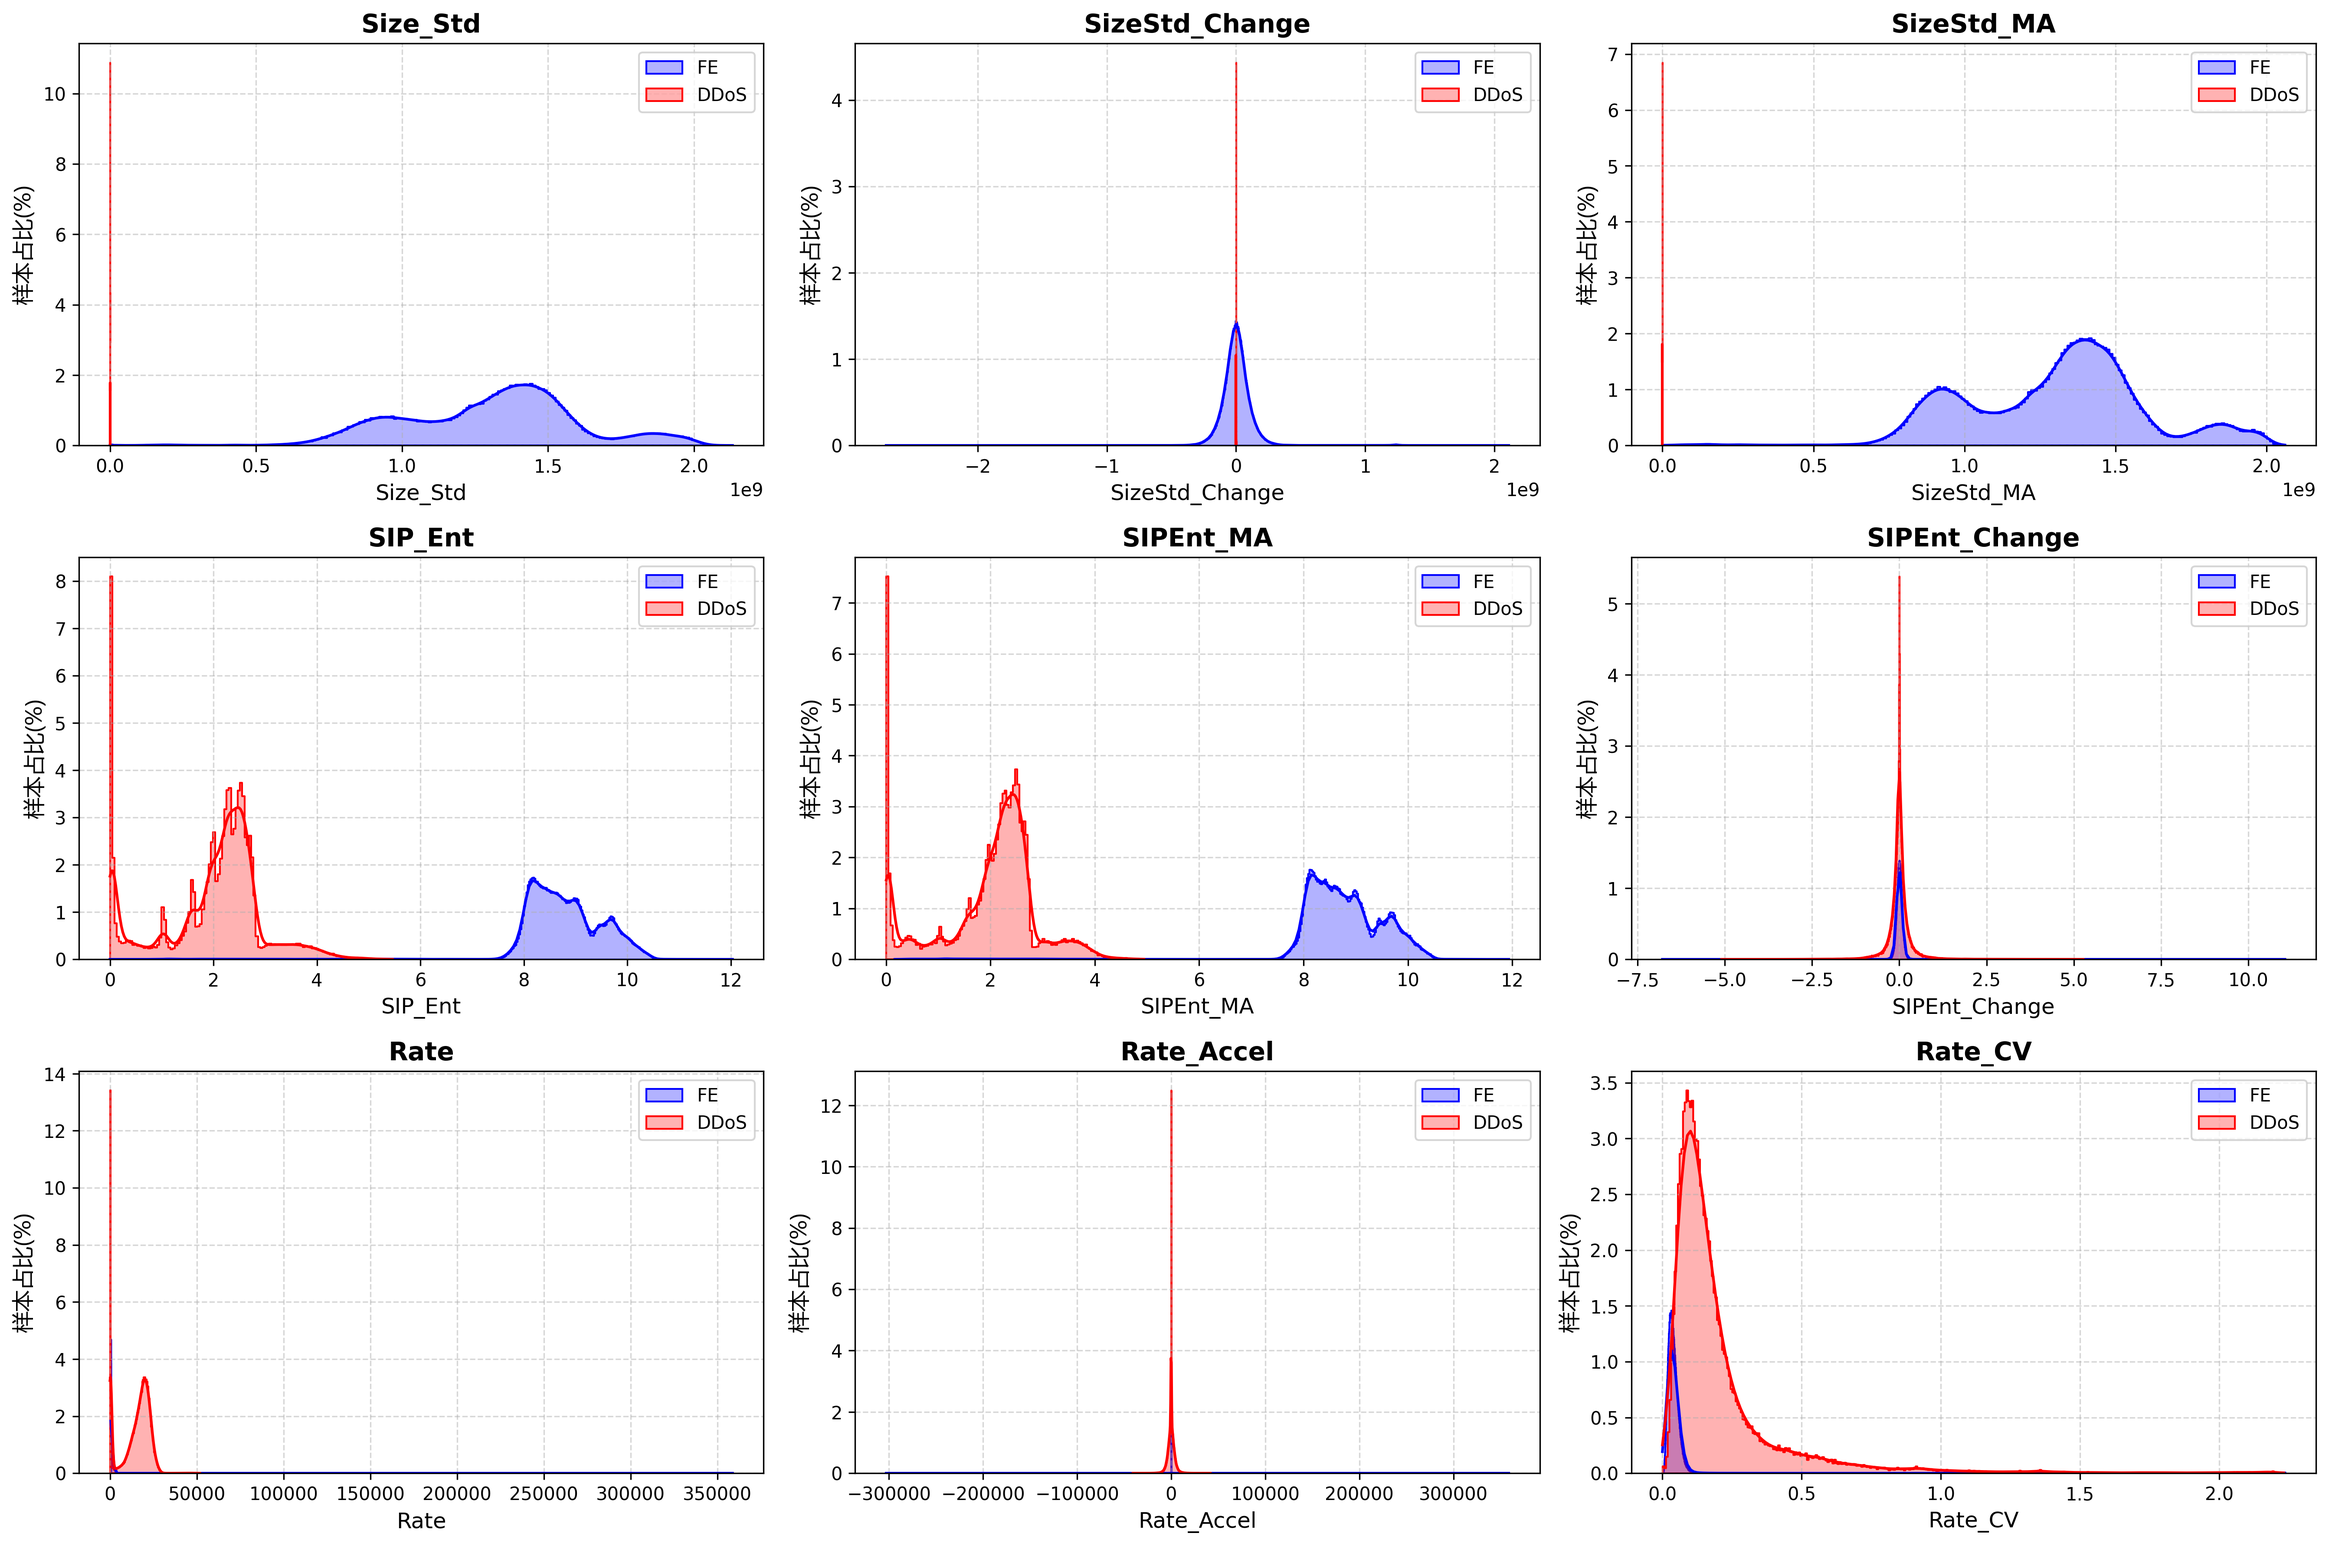
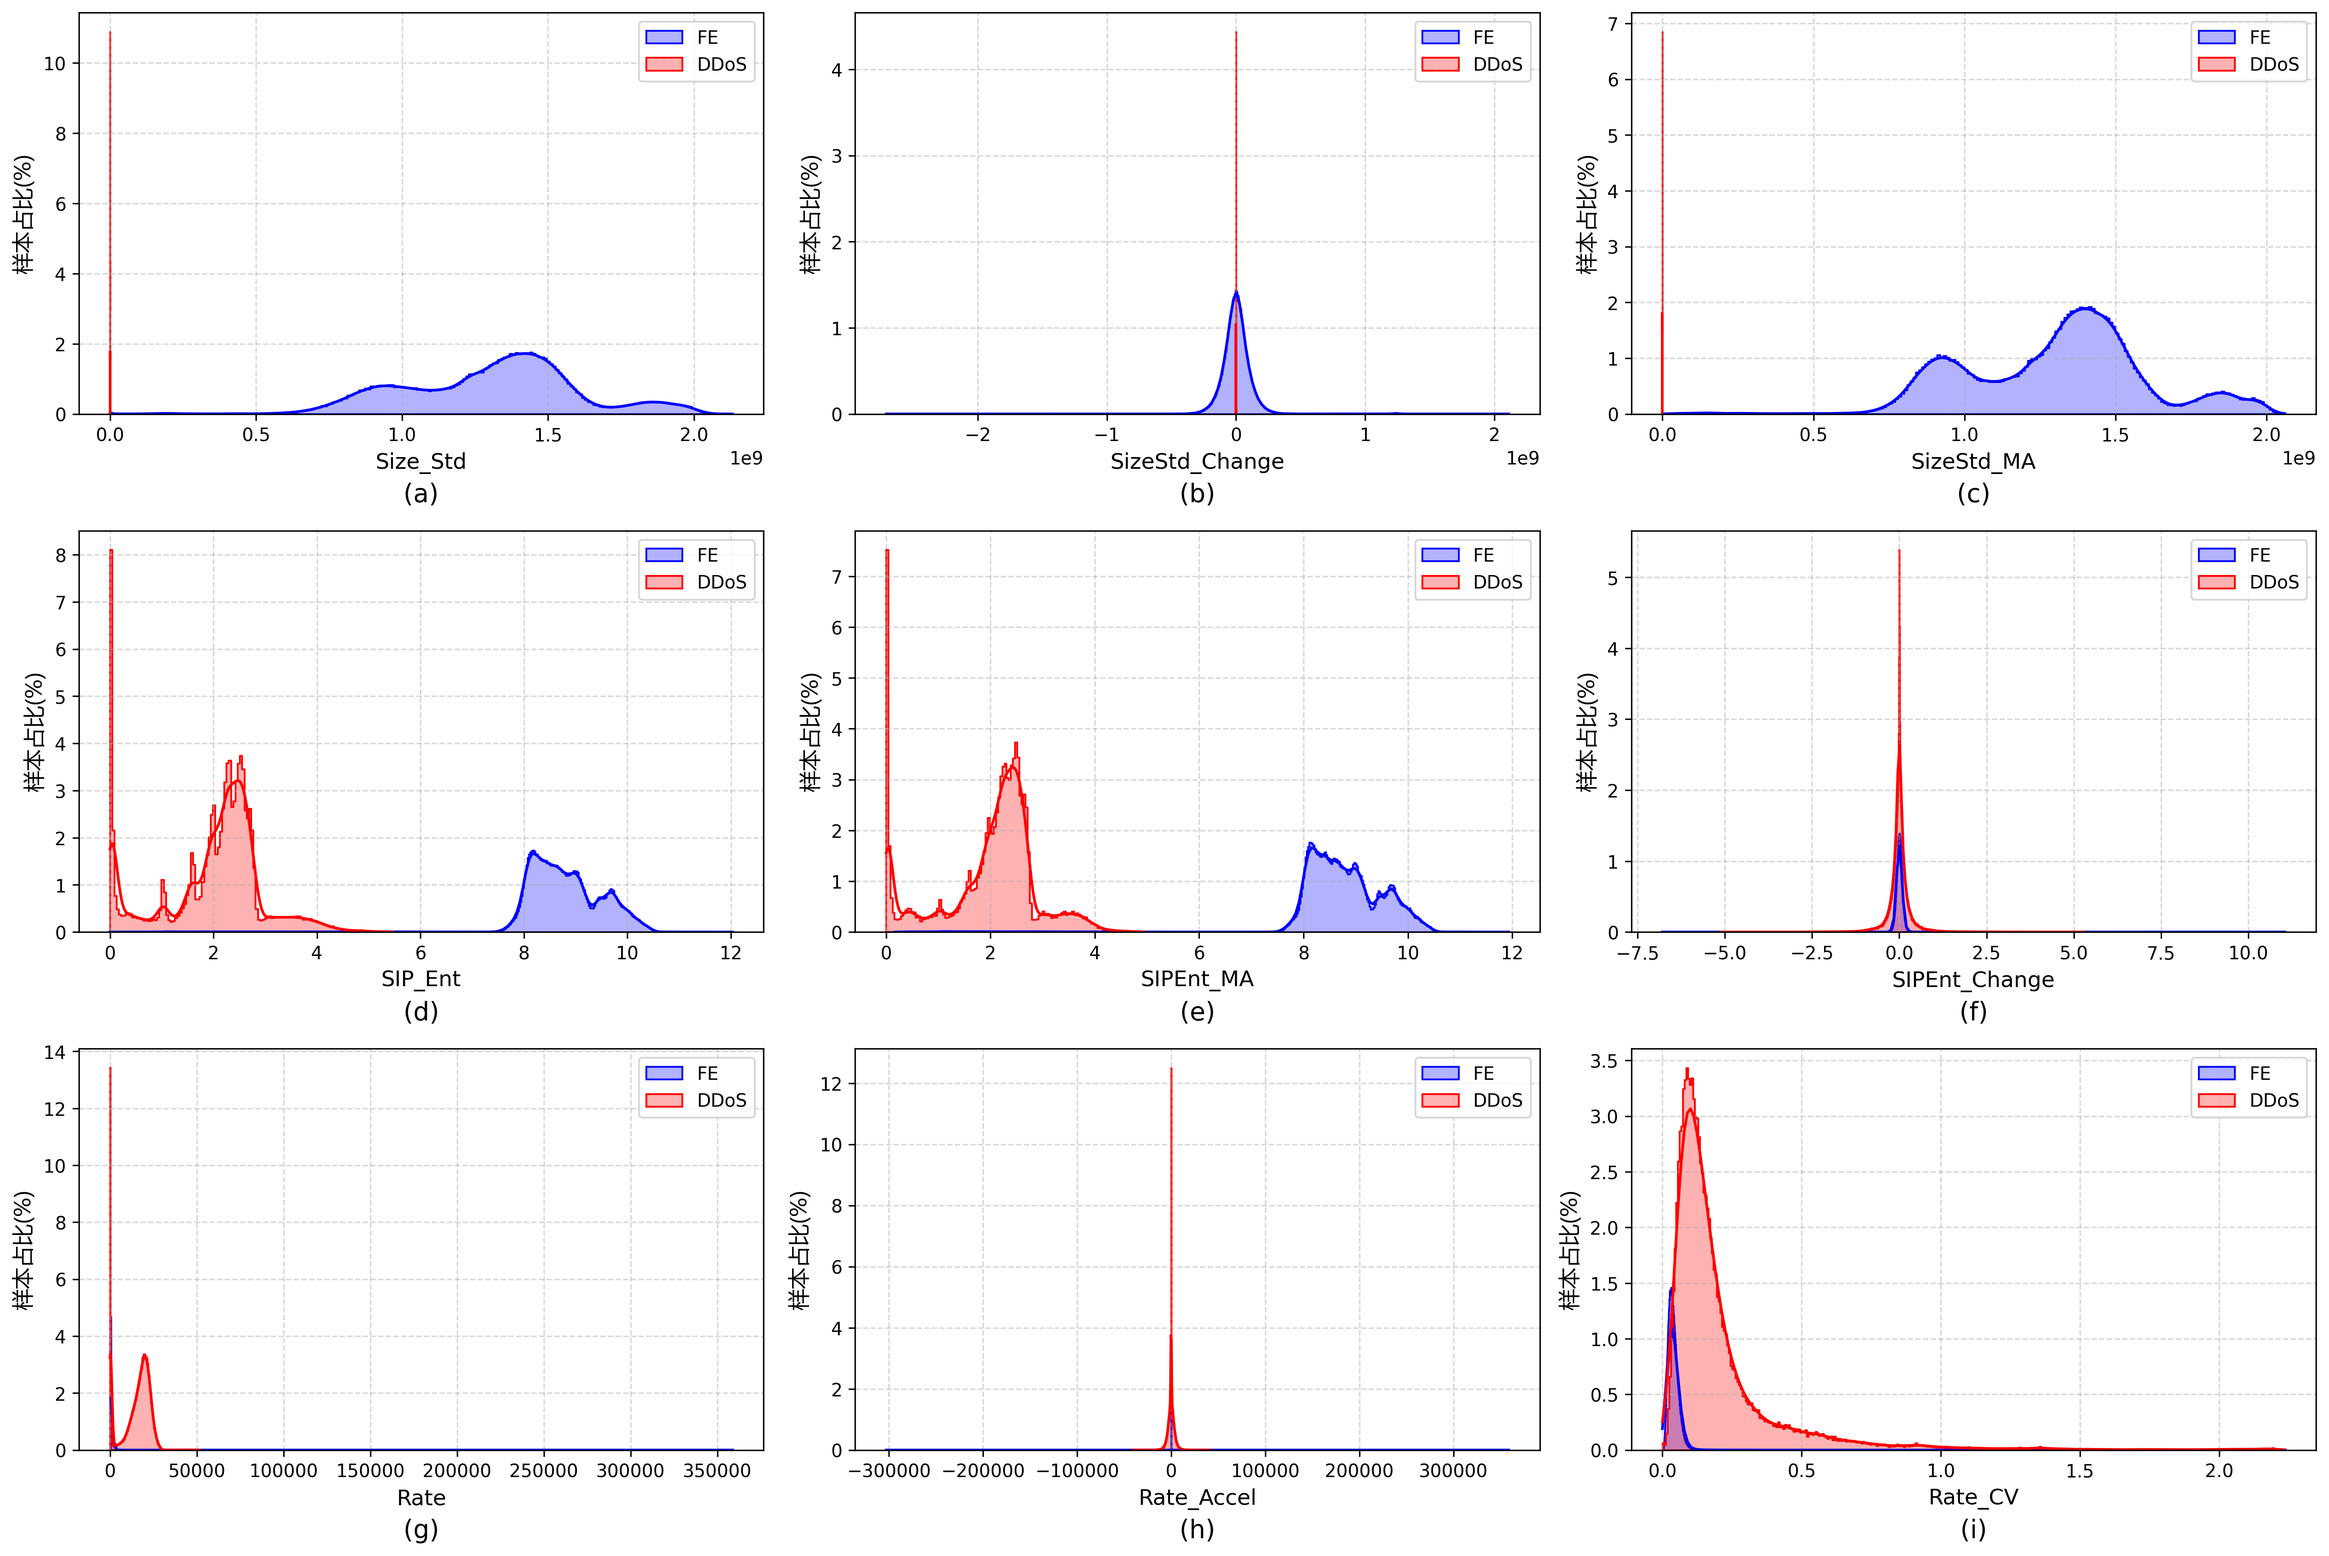
修改

diff --git a/extract_DTModel_features.py b/extract_DTModel_features.py
@@ -1,0 +1,231 @@
+#!/usr/bin/env python3
+import pandas as pd
+import numpy as np
+import dpkt
+import socket
+import os
+import glob
+import concurrent.futures
+from sklearn.utils import shuffle
+
+# ================= 配置区域 =================
+# 输入目录配置
+DDOS_PCAP_DIR = '/data/exp/hrliu/CIC2023/pcap/' 
+FLASH_CSV_DIR = '/data/exp/hrliu/1998WC/WorldCupCSV/'
+
+# 输出文件配置
+OUTPUT_DDOS_CSV = './tinubu_3dim_ddos.csv'
+OUTPUT_FLASH_CSV = './tinubu_3dim_flash.csv'
+OUTPUT_MERGED_CSV = './tinubu_3dim_full_mixed.csv'
+
+# WorldCup CSV 列名配置 (请根据您的实际 CSV 表头修改)
+# 假设 WorldCup 数据中有时间戳(单位:秒)和客户端ID(代替IP)
+CSV_TIME_COL = 'timestamp' 
+CSV_IP_COL = 'clientID'
+
+# 标签配置
+LABEL_DDOS = 1
+LABEL_FE = 0
+# ===========================================
+
+def extract_features_from_window(timestamps, ips, seen_ips):
+    """
+    核心计算逻辑：提取 Tinubu 等人提出的 3 维特征
+    """
+    if not timestamps:
+        return 0, 0, 0.0
+
+    # 1. 源 IP 数 (Num_SrcIP)
+    unique_ips = set(ips)
+    num_src_ip = len(unique_ips)
+
+    # 2. 新源 IP 数 (Num_New_SrcIP)
+    new_ips = unique_ips - seen_ips
+    num_new_src_ip = len(new_ips)
+    
+    # 更新历史 IP 集合
+    seen_ips.update(unique_ips)
+
+    # 3. 数据包到达时间间隔平均值 (Mean_IAT)
+    if len(timestamps) > 1:
+        # 计算相邻数据包的时间差
+        iats = np.diff(timestamps)
+        mean_iat = np.mean(iats)
+    else:
+        # 窗口内只有一个包时，IAT 为 0
+        mean_iat = 0.0
+
+    return num_src_ip, num_new_src_ip, mean_iat
+
+
+def process_ddos_pcap(pcap_path):
+    """
+    解析 DDoS PCAP 文件并提取 3 维特征
+    """
+    filename = os.path.basename(pcap_path)
+    print(f"[PCAP] 开始处理: {filename} ...")
+    
+    features_list = []
+    seen_ips = set()
+    
+    current_second = -1
+    temp_timestamps = []
+    temp_ips = []
+    
+    try:
+        with open(pcap_path, 'rb') as f:
+            try:
+                pcap = dpkt.pcap.Reader(f)
+            except:
+                pcap = dpkt.pcapng.Reader(f)
+                
+            for ts, buf in pcap:
+                try:
+                    eth = dpkt.ethernet.Ethernet(buf)
+                    if not isinstance(eth.data, dpkt.ip.IP):
+                        continue
+                    ip = eth.data
+                    src_ip = socket.inet_ntoa(ip.src)
+                except:
+                    continue
+
+                sec = int(ts)
+                
+                # 时间窗聚合逻辑
+                if sec != current_second:
+                    if current_second != -1 and temp_timestamps:
+                        num_src, num_new, mean_iat = extract_features_from_window(temp_timestamps, temp_ips, seen_ips)
+                        features_list.append({
+                            'timestamp': current_second,
+                            'Num_SrcIP': num_src,
+                            'Num_New_SrcIP': num_new,
+                            'Mean_IAT': mean_iat,
+                            'Label': LABEL_DDOS
+                        })
+                    current_second = sec
+                    temp_timestamps = []
+                    temp_ips = []
+                
+                # 保存高精度时间戳用于计算 IAT，保存 IP 用于计算熵
+                temp_timestamps.append(ts)
+                temp_ips.append(src_ip)
+            
+            # 处理文件末尾最后一个窗口
+            if temp_timestamps:
+                num_src, num_new, mean_iat = extract_features_from_window(temp_timestamps, temp_ips, seen_ips)
+                features_list.append({
+                    'timestamp': current_second,
+                    'Num_SrcIP': num_src,
+                    'Num_New_SrcIP': num_new,
+                    'Mean_IAT': mean_iat,
+                    'Label': LABEL_DDOS
+                })
+
+    except Exception as e:
+        print(f"[!] 读取错误 {filename}: {e}")
+        return pd.DataFrame()
+
+    df = pd.DataFrame(features_list)
+    return df
+
+
+def process_flash_csv(csv_path):
+    """
+    解析 Flash Event CSV 文件并提取 3 维特征
+    """
+    filename = os.path.basename(csv_path)
+    print(f"[CSV] 开始处理: {filename} ...")
+    
+    try:a
+        df_raw = pd.read_csv(csv_path)
+        
+        # 验证必需的列是否存在
+        if CSV_TIME_COL not in df_raw.columns or CSV_IP_COL not in df_raw.columns:
+            print(f"[!] 错误: {filename} 缺少必要的列名 ({CSV_TIME_COL} 或 {CSV_IP_COL})")
+            return pd.DataFrame()
+
+        # 确保按时间排序
+        df_raw = df_raw.sort_values(CSV_TIME_COL)
+        
+        # 增加一列表示聚合的“秒”
+        df_raw['sec_window'] = df_raw[CSV_TIME_COL].astype(int)
+        
+        features_list = []
+        seen_ips = set()
+        
+        # 按秒聚合进行处理
+        for sec, group in df_raw.groupby('sec_window'):
+            timestamps = group[CSV_TIME_COL].values
+            ips = group[CSV_IP_COL].values
+            
+            num_src, num_new, mean_iat = extract_features_from_window(timestamps, ips, seen_ips)
+            
+            features_list.append({
+                'timestamp': sec,
+                'Num_SrcIP': num_src,
+                'Num_New_SrcIP': num_new,
+                'Mean_IAT': mean_iat,
+                'Label': LABEL_FE
+            })
+            
+    except Exception as e:
+        print(f"[!] 读取错误 {filename}: {e}")
+        return pd.DataFrame()
+
+    return pd.DataFrame(features_list)
+
+
+def main():
+    max_workers = os.cpu_count() or 4
+    print(f"[*] 开始提取 Tinubu 基准模型的 3 维特征...")
+    
+    # ================= 1. 处理 DDoS PCAP =================
+    pcap_files = glob.glob(os.path.join(DDOS_PCAP_DIR, "*.pcap"))
+    ddos_dfs = []
+    if pcap_files:
+        print(f"\n[*] 发现 {len(pcap_files)} 个 PCAP 文件，开始并行处理...")
+        with concurrent.futures.ProcessPoolExecutor(max_workers=max_workers) as executor:
+            for df in executor.map(process_ddos_pcap, pcap_files):
+                if not df.empty:
+                    ddos_dfs.append(df)
+        df_ddos_final = pd.concat(ddos_dfs, ignore_index=True)
+        df_ddos_final.to_csv(OUTPUT_DDOS_CSV, index=False)
+        print(f"[+] DDoS 3维特征已保存至 {OUTPUT_DDOS_CSV} (样本数: {len(df_ddos_final)})")
+    else:
+        print(f"[!] 未在 {DDOS_PCAP_DIR} 找到 PCAP 文件！")
+        df_ddos_final = pd.DataFrame()
+
+    # ================= 2. 处理 Flash Event CSV =================
+    csv_files = glob.glob(os.path.join(FLASH_CSV_DIR, "*.csv"))
+    flash_dfs = []
+    if csv_files:
+        print(f"\n[*] 发现 {len(csv_files)} 个 CSV 文件，开始并行处理...")
+        with concurrent.futures.ProcessPoolExecutor(max_workers=max_workers) as executor:
+            for df in executor.map(process_flash_csv, csv_files):
+                if not df.empty:
+                    flash_dfs.append(df)
+        df_flash_final = pd.concat(flash_dfs, ignore_index=True)
+        df_flash_final.to_csv(OUTPUT_FLASH_CSV, index=False)
+        print(f"[+] FE 3维特征已保存至 {OUTPUT_FLASH_CSV} (样本数: {len(df_flash_final)})")
+    else:
+        print(f"[!] 未在 {FLASH_CSV_DIR} 找到 CSV 文件！")
+        df_flash_final = pd.DataFrame()
+
+    # ================= 3. 合并打乱 (供模型训练测试) =================
+    if not df_ddos_final.empty and not df_flash_final.empty:
+        df_merged = pd.concat([df_ddos_final, df_flash_final], ignore_index=True)
+        # 全局打乱
+        df_merged = shuffle(df_merged, random_state=42)
+        
+        # 整理列顺序
+        final_cols = ['Num_SrcIP', 'Num_New_SrcIP', 'Mean_IAT', 'Label']
+        df_merged = df_merged[final_cols]
+        
+        df_merged.to_csv(OUTPUT_MERGED_CSV, index=False)
+        print(f"\n[🚀] 最终混合数据集生成成功！已保存至: {OUTPUT_MERGED_CSV}")
+        print(f"[*] 总样本数: {len(df_merged)}")
+        print("\n数据预览:")
+        print(df_merged.head())
+
+if __name__ == "__main__":
+    main()

diff --git a/特征分析plot.py b/特征分析plot.py
@@ -6,72 +6,75 @@ import os
 from matplotlib.font_manager import FontProperties
 
 # ================= 配置 =================
-# 指定新的文件名 (保持不变)
 FLASH_FILE = './flash_event_9dim_full.csv'
 DDOS_FILE = './ciciot_ddos_9dim_full.csv'
 OUTPUT_IMG = 'all_9_features_distribution_full.png'
 
-# 指定微软雅黑字体文件路径及字号（确保 MSYH.TTC 与本脚本在同级目录）
+# 指定微软雅黑字体文件路径及字号
 my_font = FontProperties(fname='./MSYH.TTC', size=12)
 # =======================================
 
 def plot_all_features():
     print(f"[*] 正在读取文件...")
     if not os.path.exists(FLASH_FILE) or not os.path.exists(DDOS_FILE):
-        print(f"[!] 错误: 找不到文件。请确认当前目录下存在:\n    {FLASH_FILE}\n    {DDOS_FILE}")
+        print(f"[!] 错误: 找不到文件。")
         return
 
     df_flash = pd.read_csv(FLASH_FILE)
     df_ddos = pd.read_csv(DDOS_FILE)
     
-    # 2. 自动筛选特征列
-    # 排除掉不需要画图的列 (Label, timestamp, 索引等)
-    exclude_cols = ['Label', 'timestamp', 'Unnamed: 0']
-    
-    # 自动获取特征列表
-    features_to_check = [col for col in df_flash.columns if col not in exclude_cols]
+    # 强制指定特征的绘制顺序
+    features_to_check = [
+        'Size_Std', 'SizeStd_Change', 'SizeStd_MA',  
+        'SIP_Ent', 'SIPEnt_MA', 'SIPEnt_Change',      
+        'Rate', 'Rate_Accel', 'Rate_CV'              
+    ]
     
     n_features = len(features_to_check)
-    print(f"[*] 检测到 {n_features} 个特征: {features_to_check}")
     
-    if n_features == 0:
-        print("[!] 未检测到特征列，请检查 CSV 文件表头。")
-        return
-
-    # 3. 设置画布布局 (自动计算行数，固定 3 列)
     cols = 3
     rows = math.ceil(n_features / cols)
     
-    # 动态调整高度：每行给 4 英寸高度
-    plt.figure(figsize=(18, 4 * rows))
+    # 动态调整高度，稍微收紧画布总高度
+    plt.figure(figsize=(18, 4.0 * rows)) 
     
-    # 4. 循环绘制每个特征
     for i, col in enumerate(features_to_check):
-        plt.subplot(rows, cols, i+1)
+        ax = plt.subplot(rows, cols, i+1)
         
-        # 绘制 Flash (蓝色) -> 改为 percent
+        # 绘制 FE (蓝色)
         sns.histplot(df_flash[col], color='blue', label='FE', 
                      kde=True, stat="percent", common_norm=False, 
                      element="step", fill=True, alpha=0.3)
         
-        # 绘制 DDoS (红色) -> 改为 percent
+        # 绘制 DDoS (红色)
         sns.histplot(df_ddos[col], color='red', label='DDoS', 
                      kde=True, stat="percent", common_norm=False, 
                      element="step", fill=True, alpha=0.3)
         
-        plt.title(f'{col}', fontsize=14, fontweight='bold')
+        subplot_label = chr(97 + i)  # 生成 a, b, c...
+        
+        # 1. 横坐标保持原样
         plt.xlabel(col, fontsize=12)
         
-        # 修改 Y 轴标签为 Percentage (%)，并应用指定的本地中文字体
-        plt.ylabel('样本占比(%)', fontproperties=my_font)
+        # ================= 核心微调区 =================
+        # 2. 把 -0.22 向上收紧到了 -0.15，让标号紧紧贴着横坐标
+        plt.text(0.5, -0.17, f'({subplot_label})', 
+                 transform=ax.transAxes, 
+                 fontsize=14, 
+                 ha='center', va='top')
+        # ==============================================
         
+        plt.ylabel('样本占比(%)', fontproperties=my_font)
         plt.legend()
         plt.grid(True, linestyle='--', alpha=0.5)
 
-    plt.tight_layout()
+    # ================= 核心微调区 =================
+    # 把 h_pad 从 3.0 收紧到了 1.5，让排与排之间的空白恰到好处
+    plt.tight_layout(h_pad=1.5) 
+    # ==============================================
+    
     plt.savefig(OUTPUT_IMG, dpi=300, bbox_inches='tight')
     print(f"\n[OK] 绘图完成！图片已保存为: {OUTPUT_IMG}")
-    print("    现在 Y 轴代表‘样本占比(%)’，数值（如 20）代表该区间包含了 20% 的样本。")
 
 if __name__ == "__main__":
     plot_all_features()
